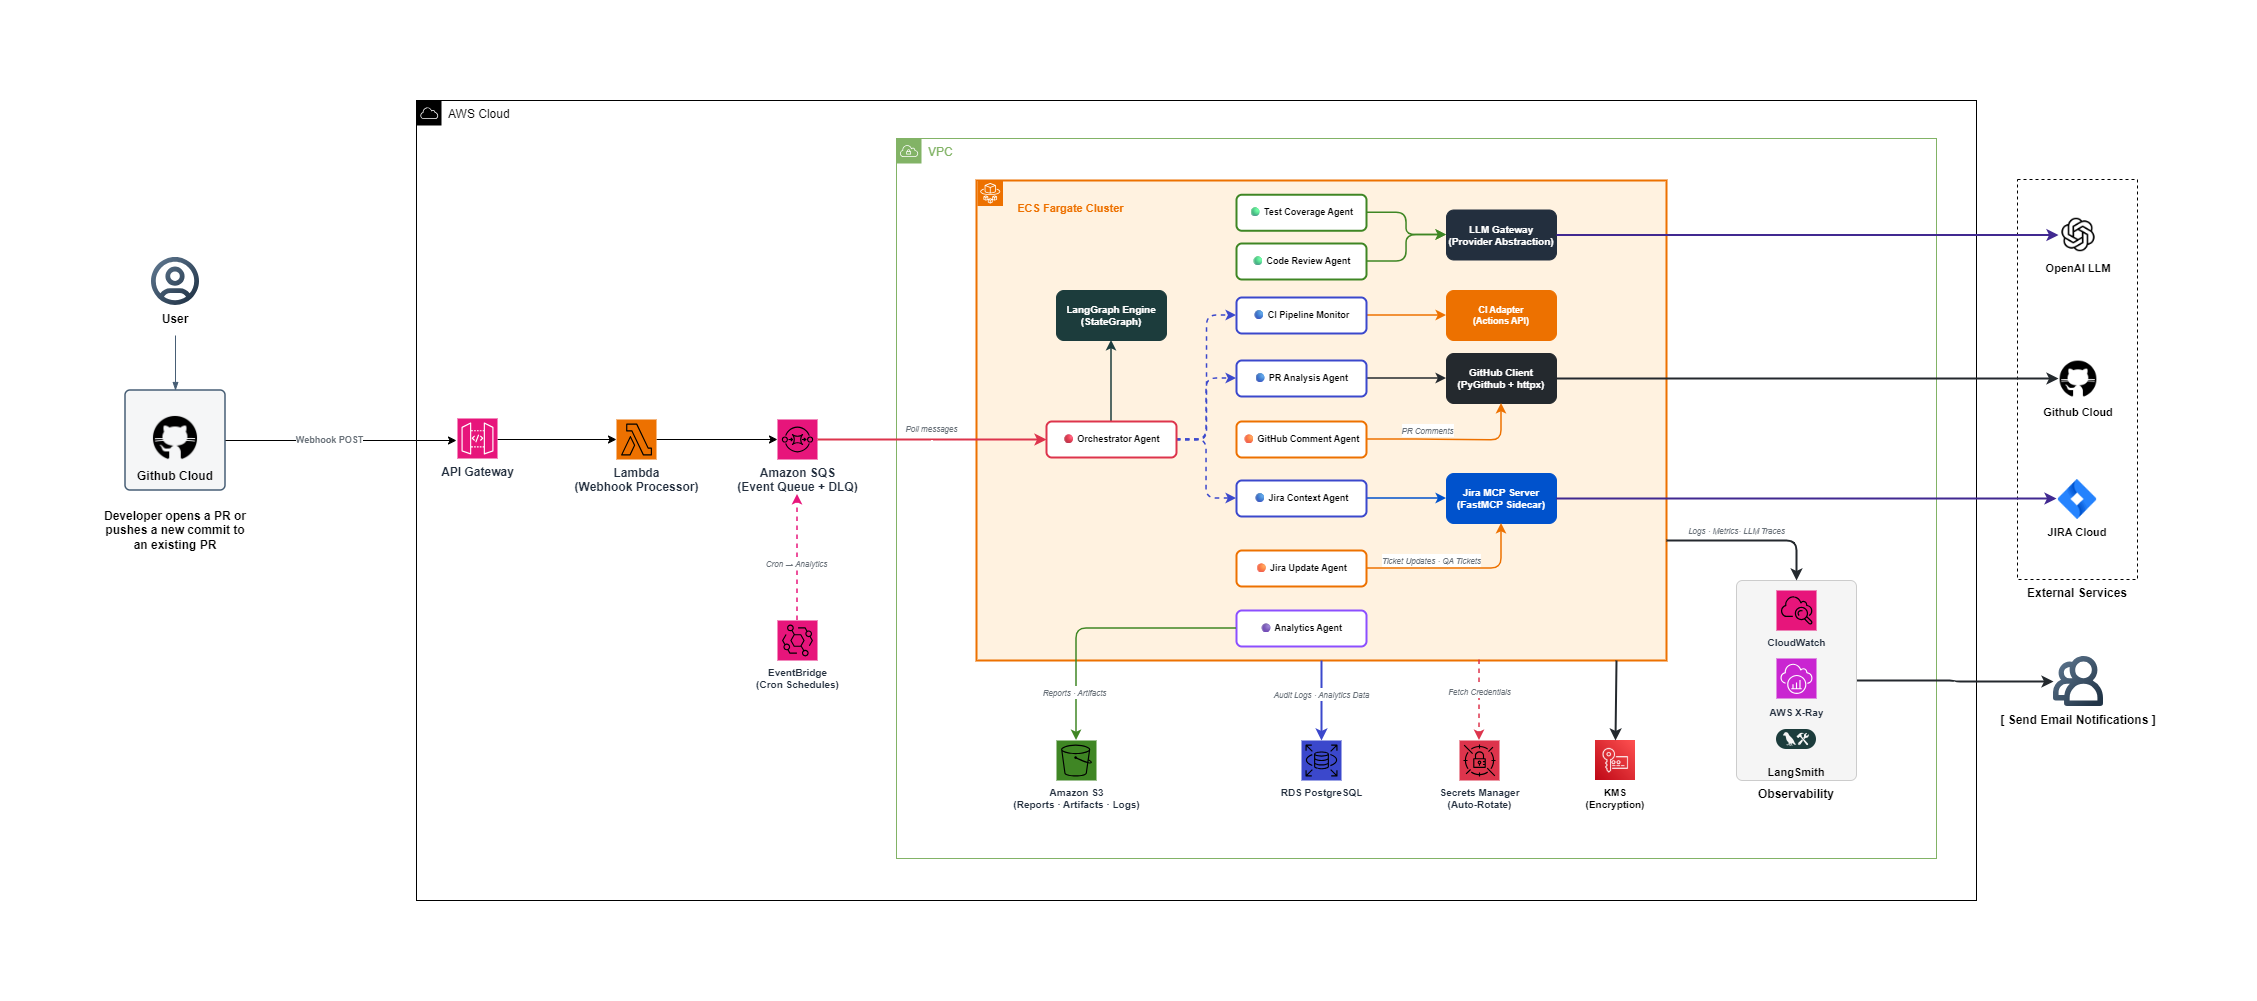
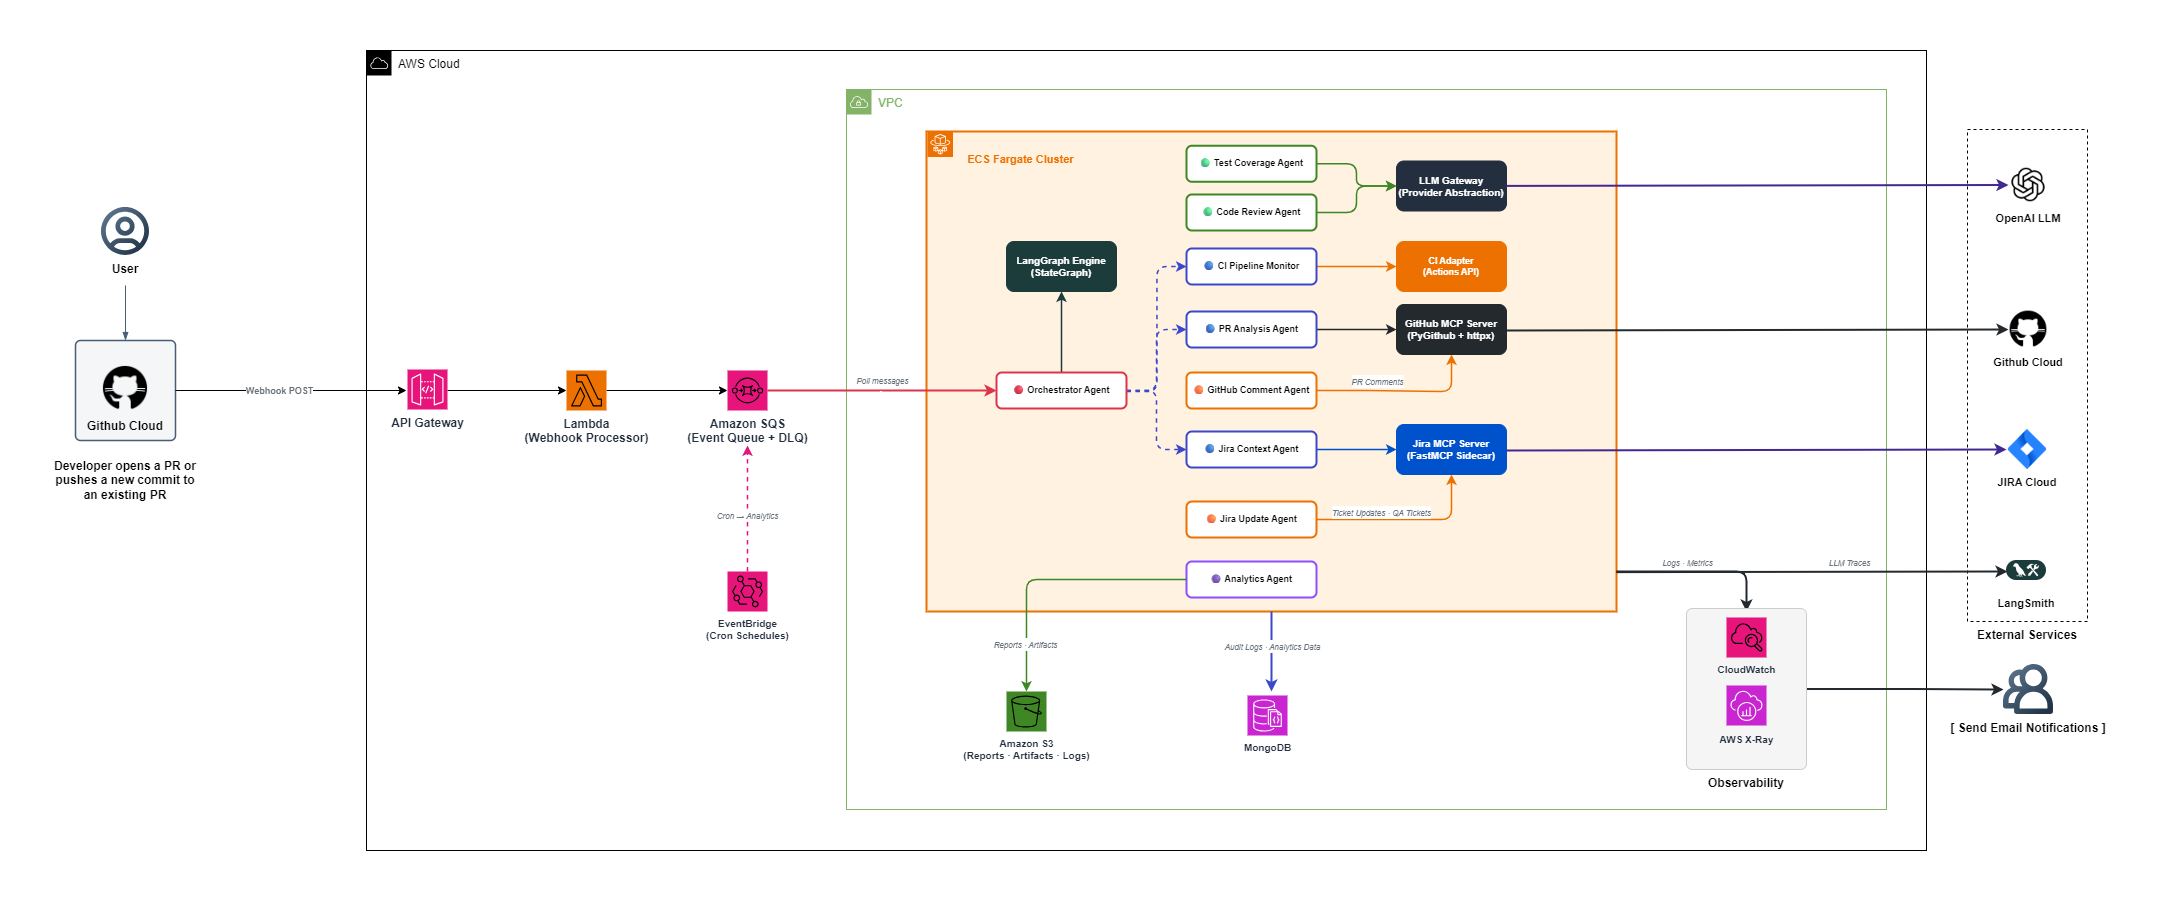
updated the final project docs

diff --git a/letm-ai-final-project/Architecture/maiCode-Architecture.md b/letm-ai-final-project/Architecture/maiCode-Architecture.md
@@ -4,7 +4,7 @@
 
 maiCode is an enterprise-grade AI agentic system built for Nagarro that automates the entire code review lifecycle. It triggers automatically on GitHub Pull Requests, fetches associated Jira tickets via MCP, monitors CI pipelines, reviews code against ticket intent using AI, generates intelligent review comments, identifies missing test cases, updates Jira tickets with review status, and automatically creates QA test tickets. Post-merge, it tracks developer quality metrics to enable data-driven engineering management.
 
-**Tech Stack:** Python 3.12 · LangGraph · LangChain · FastMCP · FastAPI · OpenAI GPT-4o · AWS (ECS Fargate, Lambda, SQS, RDS PostgreSQL, S3) · GitHub Actions · Jira Cloud
+**Tech Stack:** Python 3.12 · LangGraph · LangChain · FastMCP · FastAPI · OpenAI GPT-4o · AWS (ECS Fargate, Lambda, SQS, S3) · MongoDB · GitHub Actions · Jira Cloud
 
 **Scale:** 10–150 developers · ~100 PRs/day · Multi-repository · Mixed programming languages
 
@@ -18,14 +18,11 @@ maiCode follows an **Event-Driven Architecture** with a **Supervisor-Worker agen
 
 ### HLD Diagram
 
-![maiCode-HLD](maiCode-HLD.png)
-
+<!-- INSERT HLD DIAGRAM IMAGE HERE -->
 
 ---
 
 ## 3. Application Flow
-
-![maiCode-HLD](maiCode-AppFlow.png)
 
 ### Phase 1 — Ingestion (`< 500ms`)
 
@@ -125,7 +122,7 @@ Agent              │
     ⚡ PARALLEL JOIN
           │
           ▼
-   Workflow state persisted to PostgreSQL
+   Workflow state persisted to MongoDB
    SQS message deleted
 ```
 
@@ -219,6 +216,17 @@ GitHub Webhook
 
 **MapReduce + Structured Output** — Processes many items by mapping a computation over each independently, then reducing into aggregates. LLM generates machine-parseable JSON output. Used by Analytics Agent to compute per-developer metrics across many PRs.
 
+### Token Budget Allocation
+
+| Agent | % of Budget | Justification |
+|-------|-------------|---------------|
+| Code Review Agent | 60% | 3 LLM passes on full diff — the core value |
+| Test Coverage Agent | 20% | 1–2 LLM calls for test generation |
+| GitHub Comment Agent | 5% | 1 light call for formatting |
+| Jira Update Agent | 5% | 1 light call for formatting |
+| Analytics Agent | 10% | Summarization for reports |
+| Orchestrator / PR Analysis / CI Monitor / Jira Context | 0% | No or negligible LLM calls |
+
 ---
 
 ## 5. LangGraph State Flow
@@ -268,13 +276,13 @@ All agents communicate exclusively through a shared state object (TypedDict). Ag
 | LLM | OpenAI GPT-4o | Abstract interface allows provider switch |
 | Web Framework | FastAPI | Admin dashboard API, health checks |
 | GitHub Client | PyGithub + httpx | REST v3 + GraphQL v4 |
-| Database | PostgreSQL 16 (RDS) | Via SQLAlchemy + Alembic migrations |
+| Database | MongoDB | Via Motor (async driver) + PyMongo |
 | Queue | Amazon SQS | Event queue + DLQ |
 | Object Storage | Amazon S3 | Reports, artifacts, LLM audit logs |
 | Compute | ECS Fargate | Serverless containers, auto-scaling 2–20 tasks |
 | Webhook Processor | AWS Lambda | Stateless, <500ms response |
-| Secrets | AWS Secrets Manager | Auto-rotation |
 | Scheduler | Amazon EventBridge | Cron for daily analytics |
+| Auth | AWS Cognito | SSO federation (SAML/OIDC) |
 | IaC | Terraform | Modular, state per layer |
 | Containers | Docker | Multi-stage builds |
 | Observability | CloudWatch + LangSmith | Logs, metrics, LLM traces |
@@ -295,9 +303,4 @@ All agents communicate exclusively through a shared state object (TypedDict). Ag
 
 **Why ECS Fargate over Lambda for agents?** Lambda has a 15-minute max timeout. The CI Pipeline Monitor alone can wait up to 30 minutes for workflows to complete. ECS Fargate tasks have no timeout ceiling, support long-running processes, avoid cold start issues, and allow sidecar containers (Jira MCP server runs as a sidecar in the same task definition).
 
-**Author**
-- Abhinav Singh (abhinav.singh04@nagarro.com)
-
-**Co-Authors**
-- Mayank Singh (mayank.singh01@nagarro.com)
-- Avinash Yadav (avinash.yadav@nagarro.com)
+**Why no Redis?** At 100 PRs/day (~300 events/day with commits), the deduplication and caching load doesn't justify a dedicated Redis cluster. Deduplication is handled by checking MongoDB for existing audit records before starting the pipeline. LLM response caching can be added later if cost optimization demands it. This reduces infrastructure complexity and cost.
